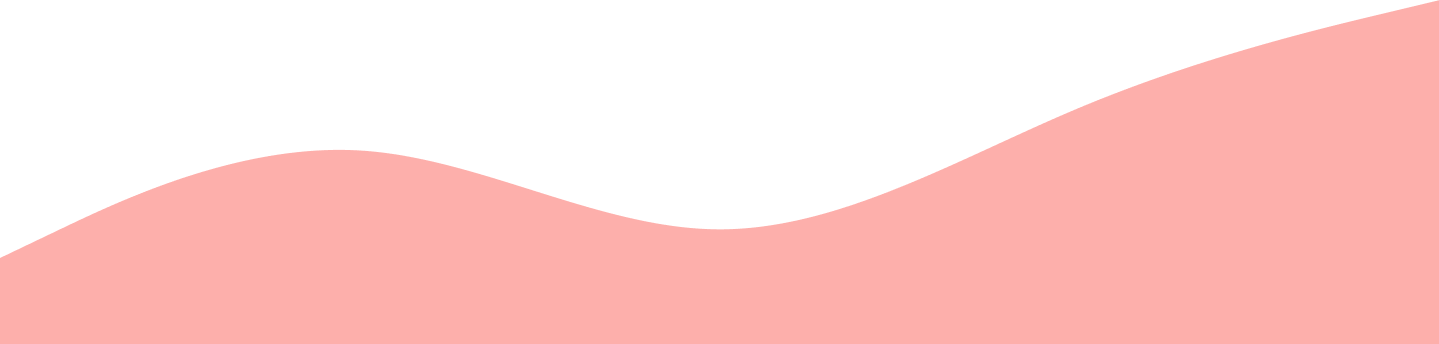
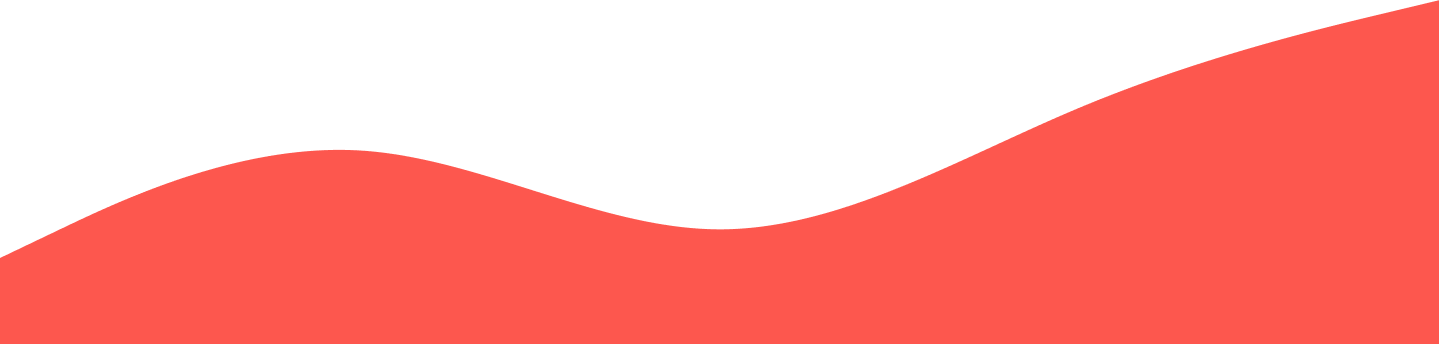
Change colors

diff --git a/src/app/components/landing/intro-section/intro-section.component.html b/src/app/components/landing/intro-section/intro-section.component.html
@@ -18,7 +18,7 @@
                 </clipPath>
             </defs>
             
-            <path fill-rule="evenodd" clip-rule="evenodd" d="M426.755 -247.339C526.01 -242.623 630.416 -205.737 691.019 -128.942C747.053 -57.9359 709.403 42.8884 725.408 131.114C738.276 202.044 786.302 264.961 775.404 336.204C763.332 415.132 724.842 490.453 662.532 542.186C597.271 596.368 510.835 641.895 426.755 625.671C345.261 609.947 319.875 506.823 250.249 462.635C174.069 414.287 41.2528 440.785 6.43092 358.913C-27.6816 278.71 83.9568 208.257 106.308 124.209C131.067 31.1084 79.6084 -81.3667 143.094 -154.976C208.865 -231.236 324.689 -252.189 426.755 -247.339Z" fill="var(--primary-brand)"/>
+            <path fill-rule="evenodd" clip-rule="evenodd" d="M426.755 -247.339C526.01 -242.623 630.416 -205.737 691.019 -128.942C747.053 -57.9359 709.403 42.8884 725.408 131.114C738.276 202.044 786.302 264.961 775.404 336.204C763.332 415.132 724.842 490.453 662.532 542.186C597.271 596.368 510.835 641.895 426.755 625.671C345.261 609.947 319.875 506.823 250.249 462.635C174.069 414.287 41.2528 440.785 6.43092 358.913C-27.6816 278.71 83.9568 208.257 106.308 124.209C131.067 31.1084 79.6084 -81.3667 143.094 -154.976C208.865 -231.236 324.689 -252.189 426.755 -247.339Z" fill="var(--primary-brand-light)"/>
 
             <image xlink:href="assets/img/Landing.png" x="0" y="90" width="100%" height="100%" preserve clip-path="url(#clip)"></image>
         </svg>  

diff --git a/src/app/styles/variables.css b/src/app/styles/variables.css
@@ -6,7 +6,7 @@
 
     /* Brand */
     --primary-brand: #FD574E;
-    --primary-brand-light: #FDAFAB;
+    --primary-brand-light: #FF7B74;
 
     /* Text */
     --font-low-emphasis: #9A9FA8;

diff --git a/src/app/components/layout/footer/footer.component.html b/src/app/components/layout/footer/footer.component.html
@@ -11,6 +11,6 @@
     </div>
 
     <div class="footer-image">
-        <img src="assets/img/Footer.png">
+        <img src="assets/img/footer.png">
     </div>
 </div>
